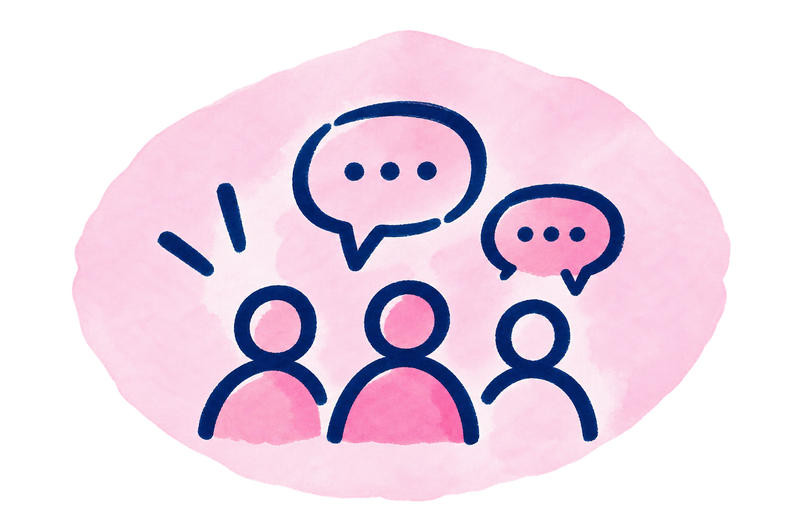
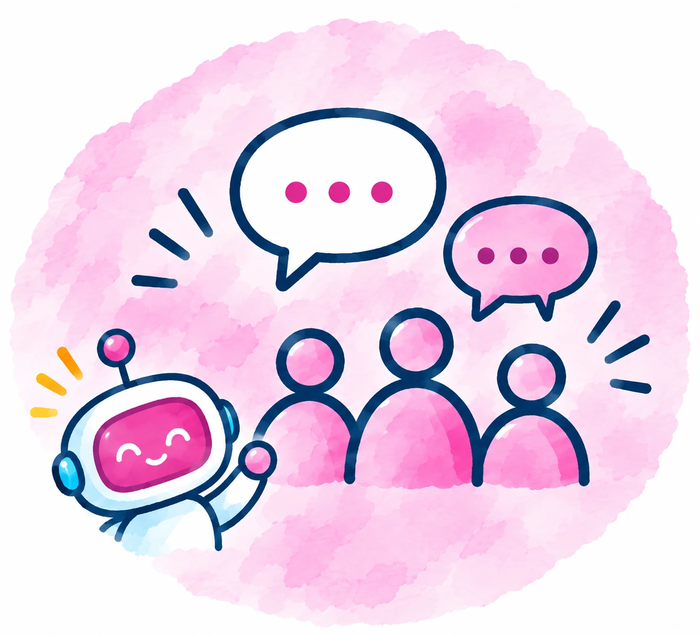
Switch to a square card and swap in the detailed mascot illustrations
Reworks the card to a compact ~1:1 square (stacked illustration/heading/
rows/button, centered) instead of the wide landscape layout. Also replaces
the simple watercolor icon-blobs with the fuller robot-at-desk scene
illustrations (one per subcommittee, matched by theme color: ai=blue,
ops=green, digital=orange, strategy=yellow, community=pink), resized and
optimized to stay well under the per-file asset limit.

diff --git a/widgets/gainsight_jp_subcommittee_next_meeting/index.html b/widgets/gainsight_jp_subcommittee_next_meeting/index.html
@@ -6,19 +6,18 @@
 
   .nm-card {
     position: relative;
-    max-width: 1000px;
+    max-width: 440px;
     margin: 0 auto;
     overflow: hidden;
     background: var(--color-surface-default, #ffffff);
     border: 1px solid var(--color-line-default, #ECEDF0);
     box-shadow: 0 2px 16px rgba(31, 42, 68, 0.06);
     border-radius: 32px;
-    padding: 36px 48px;
+    padding: 36px;
     box-sizing: border-box;
     display: flex;
-    align-items: center;
-    gap: 16px;
-    flex-wrap: wrap;
+    flex-direction: column;
+    gap: 18px;
   }
 
   .nm-status {
@@ -29,18 +28,30 @@
     font-size: 14px;
   }
 
+  .nm-top {
+    display: flex;
+    flex-direction: column;
+    align-items: center;
+    gap: 14px;
+  }
+
   .nm-main {
-    flex: 1 1 380px;
+    width: 100%;
     min-width: 0;
     position: relative;
     z-index: 1;
+    text-align: center;
+    display: flex;
+    flex-direction: column;
+    align-items: center;
   }
 
   .nm-heading-row {
     display: flex;
     align-items: center;
+    justify-content: center;
     gap: 10px;
-    margin-bottom: 20px;
+    margin-bottom: 14px;
   }
 
   .nm-heading-icon {
@@ -62,7 +73,7 @@
   }
 
   .nm-heading {
-    font-size: 26px;
+    font-size: 21px;
     font-weight: 800;
     color: #1F2A44;
     margin: 0;
@@ -85,20 +96,21 @@
   .nm-rows {
     display: flex;
     flex-direction: column;
-    gap: 14px;
-    margin-bottom: 26px;
+    align-items: center;
+    gap: 10px;
   }
 
   .nm-row {
     display: flex;
     align-items: center;
-    gap: 14px;
+    justify-content: center;
+    gap: 12px;
   }
 
   .nm-row-icon {
     flex: 0 0 auto;
-    width: 38px;
-    height: 38px;
+    width: 32px;
+    height: 32px;
     border-radius: 50%;
     display: flex;
     align-items: center;
@@ -106,8 +118,8 @@
   }
 
   .nm-row-icon svg {
-    width: 18px;
-    height: 18px;
+    width: 16px;
+    height: 16px;
     stroke: #ffffff;
     fill: none;
   }
@@ -117,21 +129,21 @@
   .nm-row-location .nm-row-icon { background: #2BC2C2; }
 
   .nm-row-text {
-    font-size: 19px;
+    font-size: 15px;
     font-weight: 700;
     color: #1F2A44;
-    background: rgba(255, 255, 255, 0.6);
+    background: var(--color-surface-subtle, #F7F7F9);
     border-radius: 999px;
-    padding: 8px 20px;
+    padding: 6px 16px;
   }
 
   /* Empty state */
   .nm-empty-headline {
-    font-size: 21px;
+    font-size: 17px;
     font-weight: 800;
     color: #1F2A44;
-    line-height: 1.5;
-    margin: 0 0 8px;
+    line-height: 1.4;
+    margin: 0 0 4px;
   }
 
   .nm-empty-headline mark {
@@ -140,25 +152,25 @@
   }
 
   .nm-empty-submessage {
-    font-size: 15px;
+    font-size: 13px;
     color: #4F5663;
-    margin: 0 0 20px;
+    margin: 0 0 12px;
   }
 
   .nm-subscribe-notice {
     display: flex;
-    align-items: flex-start;
-    gap: 12px;
-    background: rgba(255, 255, 255, 0.7);
-    border-radius: 16px;
-    padding: 14px 18px;
-    margin-bottom: 26px;
+    flex-direction: column;
+    align-items: center;
+    gap: 6px;
+    background: var(--color-surface-subtle, #F7F7F9);
+    border-radius: 14px;
+    padding: 10px 16px;
   }
 
   .nm-subscribe-icon {
     flex: 0 0 auto;
-    width: 34px;
-    height: 34px;
+    width: 28px;
+    height: 28px;
     border-radius: 50%;
     background: var(--nm-accent, #2F6FED);
     display: flex;
@@ -167,43 +179,45 @@
   }
 
   .nm-subscribe-icon svg {
-    width: 16px;
-    height: 16px;
+    width: 13px;
+    height: 13px;
     stroke: #ffffff;
     fill: none;
   }
 
   .nm-subscribe-text {
-    font-size: 14px;
+    font-size: 13px;
     font-weight: 600;
     color: #1F2A44;
-    line-height: 1.6;
+    line-height: 1.5;
   }
 
   .nm-link {
-    display: inline-flex;
+    display: flex;
     align-items: center;
-    gap: 6px;
-    background: #ffffff;
-    color: var(--nm-accent, #2F6FED);
-    border: 2px solid var(--nm-accent, #2F6FED);
-    font-size: 16px;
+    justify-content: center;
+    gap: 8px;
+    width: 100%;
+    background: var(--nm-accent, #2F6FED);
+    color: #ffffff;
+    border: none;
+    font-size: 15px;
     font-weight: 700;
     text-decoration: none;
     border-radius: 999px;
-    padding: 12px 28px;
+    padding: 12px 24px;
+    box-sizing: border-box;
   }
 
   .nm-link:hover {
-    background: var(--nm-accent, #2F6FED);
-    color: #ffffff;
+    filter: brightness(0.94);
   }
 
   .nm-illustration {
     flex: 0 0 auto;
-    width: 480px;
-    max-width: 56%;
-    margin: -56px -88px -56px -20px;
+    width: 150px;
+    max-width: 50%;
+    order: -1;
     display: flex;
     align-items: center;
     justify-content: center;
@@ -224,19 +238,8 @@
     display: none;
   }
 
-  @media (max-width: 680px) {
-    .nm-card {
-      border-radius: 32px;
-      padding: 28px;
-      flex-direction: column;
-      align-items: stretch;
-    }
-    .nm-illustration {
-      max-width: 60%;
-      margin: 0 auto;
-      order: -1;
-    }
-    .nm-row-text { font-size: 16px; }
+  @media (max-width: 360px) {
+    .nm-card { padding: 24px; }
   }
 </style>
 
@@ -249,76 +252,78 @@
 <div class="nm-card">
   <div class="nm-status"></div>
 
-  <div class="nm-main">
-    <div class="nm-heading-row">
-      <span class="nm-heading-icon">
-        <svg viewBox="0 0 24 24" fill="none" stroke-width="2" stroke-linecap="round" stroke-linejoin="round">
-          <rect x="3" y="4" width="18" height="18" rx="2"></rect>
-          <line x1="16" y1="2" x2="16" y2="6"></line>
-          <line x1="8" y1="2" x2="8" y2="6"></line>
-          <line x1="3" y1="10" x2="21" y2="10"></line>
-        </svg>
-      </span>
-      <h3 class="nm-heading">次回の<span class="nm-subcommittee-name"></span><span class="nm-spark">✦</span></h3>
-    </div>
-
-    <div class="nm-found-state">
-      <div class="nm-rows">
-        <div class="nm-row nm-row-date">
-          <span class="nm-row-icon">
-            <svg viewBox="0 0 24 24" stroke-width="2" stroke-linecap="round" stroke-linejoin="round">
-              <rect x="3" y="4" width="18" height="18" rx="2"></rect>
-              <line x1="16" y1="2" x2="16" y2="6"></line>
-              <line x1="8" y1="2" x2="8" y2="6"></line>
-              <line x1="3" y1="10" x2="21" y2="10"></line>
-            </svg>
-          </span>
-          <span class="nm-row-text nm-date-text"></span>
-        </div>
-        <div class="nm-row nm-row-time">
-          <span class="nm-row-icon">
-            <svg viewBox="0 0 24 24" stroke-width="2" stroke-linecap="round" stroke-linejoin="round">
-              <circle cx="12" cy="12" r="9"></circle>
-              <polyline points="12 7 12 12 16 14"></polyline>
-            </svg>
-          </span>
-          <span class="nm-row-text nm-time-text"></span>
-        </div>
-        <div class="nm-row nm-row-location">
-          <span class="nm-row-icon">
-            <svg viewBox="0 0 24 24" stroke-width="2" stroke-linecap="round" stroke-linejoin="round">
-              <path d="M12 21s-7-7.1-7-12a7 7 0 0 1 14 0c0 4.9-7 12-7 12z"></path>
-              <circle cx="12" cy="9" r="2.5"></circle>
-            </svg>
-          </span>
-          <span class="nm-row-text nm-location-text"></span>
-        </div>
-      </div>
-    </div>
-
-    <div class="nm-empty-state">
-      <p class="nm-empty-headline"></p>
-      <p class="nm-empty-submessage"></p>
-      <div class="nm-subscribe-notice">
-        <span class="nm-subscribe-icon">
-          <svg viewBox="0 0 24 24" stroke-width="2" stroke-linecap="round" stroke-linejoin="round">
-            <path d="M18 8a6 6 0 0 0-12 0c0 7-3 9-3 9h18s-3-2-3-9"></path>
-            <path d="M13.73 21a2 2 0 0 1-3.46 0"></path>
+  <div class="nm-top">
+    <div class="nm-main">
+      <div class="nm-heading-row">
+        <span class="nm-heading-icon">
+          <svg viewBox="0 0 24 24" fill="none" stroke-width="2" stroke-linecap="round" stroke-linejoin="round">
+            <rect x="3" y="4" width="18" height="18" rx="2"></rect>
+            <line x1="16" y1="2" x2="16" y2="6"></line>
+            <line x1="8" y1="2" x2="8" y2="6"></line>
+            <line x1="3" y1="10" x2="21" y2="10"></line>
           </svg>
         </span>
-        <span class="nm-subscribe-text"></span>
+        <h3 class="nm-heading">次回の<span class="nm-subcommittee-name"></span><span class="nm-spark">✦</span></h3>
+      </div>
+
+      <div class="nm-found-state">
+        <div class="nm-rows">
+          <div class="nm-row nm-row-date">
+            <span class="nm-row-icon">
+              <svg viewBox="0 0 24 24" stroke-width="2" stroke-linecap="round" stroke-linejoin="round">
+                <rect x="3" y="4" width="18" height="18" rx="2"></rect>
+                <line x1="16" y1="2" x2="16" y2="6"></line>
+                <line x1="8" y1="2" x2="8" y2="6"></line>
+                <line x1="3" y1="10" x2="21" y2="10"></line>
+              </svg>
+            </span>
+            <span class="nm-row-text nm-date-text"></span>
+          </div>
+          <div class="nm-row nm-row-time">
+            <span class="nm-row-icon">
+              <svg viewBox="0 0 24 24" stroke-width="2" stroke-linecap="round" stroke-linejoin="round">
+                <circle cx="12" cy="12" r="9"></circle>
+                <polyline points="12 7 12 12 16 14"></polyline>
+              </svg>
+            </span>
+            <span class="nm-row-text nm-time-text"></span>
+          </div>
+          <div class="nm-row nm-row-location">
+            <span class="nm-row-icon">
+              <svg viewBox="0 0 24 24" stroke-width="2" stroke-linecap="round" stroke-linejoin="round">
+                <path d="M12 21s-7-7.1-7-12a7 7 0 0 1 14 0c0 4.9-7 12-7 12z"></path>
+                <circle cx="12" cy="9" r="2.5"></circle>
+              </svg>
+            </span>
+            <span class="nm-row-text nm-location-text"></span>
+          </div>
+        </div>
+      </div>
+
+      <div class="nm-empty-state">
+        <p class="nm-empty-headline"></p>
+        <p class="nm-empty-submessage"></p>
+        <div class="nm-subscribe-notice">
+          <span class="nm-subscribe-icon">
+            <svg viewBox="0 0 24 24" stroke-width="2" stroke-linecap="round" stroke-linejoin="round">
+              <path d="M18 8a6 6 0 0 0-12 0c0 7-3 9-3 9h18s-3-2-3-9"></path>
+              <path d="M13.73 21a2 2 0 0 1-3.46 0"></path>
+            </svg>
+          </span>
+          <span class="nm-subscribe-text"></span>
+        </div>
       </div>
     </div>
 
-    <a class="nm-link" href="#" target="_blank" rel="noopener noreferrer">
-      <span class="nm-link-text"></span>
-      <span>›</span>
-    </a>
+    <div class="nm-illustration">
+      <img class="nm-mascot" src="" alt="" />
+    </div>
   </div>
 
-  <div class="nm-illustration">
-    <img class="nm-mascot" src="" alt="" />
-  </div>
+  <a class="nm-link" href="#" target="_blank" rel="noopener noreferrer">
+    <span class="nm-link-text"></span>
+    <span>›</span>
+  </a>
 </div>
 
 <script type="module" src="app.js"></script>
